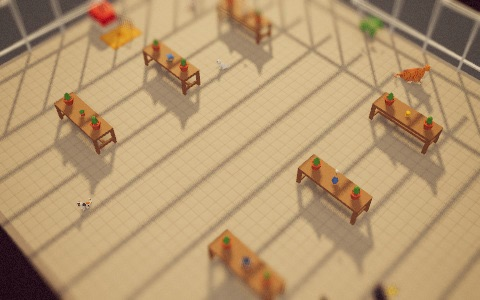
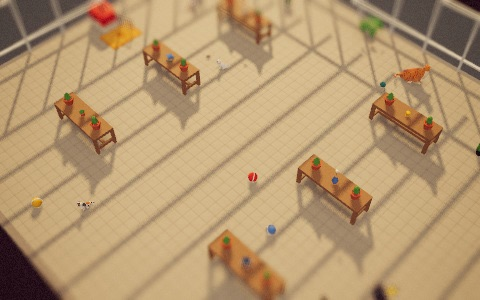
Tonal braided rugs, rolling yarn, room cards redrawn, results sockets on the win picture, README and design notes

diff --git a/src/render/room.js b/src/render/room.js
@@ -770,56 +770,61 @@ function plaidTexture(color) {
     return new THREE.MeshStandardMaterial({ map: t, roughness: 0.97 });
   });
 }
-/** A braided rag rug: many narrow rings, mostly the main colour with its neighbours mixed in, each ring twisted. */
+/** A braided rag rug: narrow rings close in tone (the main colour and its shades), now and then an accent, each ring
+ * twisted; a darker edge. Tonal, so it reads as a woven mat and not a target. */
 function braidTexture(cols) {
   return mat(`braid:${cols.join()}`, () => canvasTex(256, 256, (g, w) => {
     const c = w / 2;
     let seed = hashStr(cols.join()) || 1;
     const rnd = () => { seed = (seed * 16807) % 2147483647; return seed / 2147483647; };
-    g.fillStyle = shade(cols[0], -0.25); g.fillRect(0, 0, w, w);
-    const band = 6.4;
-    let last = -1;
+    const main = cols[0];
+    const tones = [main, shade(main, 0.05), shade(main, -0.05), shade(main, 0.09)];
+    g.fillStyle = shade(main, -0.22); g.fillRect(0, 0, w, w);
+    const band = 5.2;
     for (let r = c - 1, i = 0; r > 3; r -= band, i++) {
-      // the outer two rings in the edge colour, then a weighted mix
-      let k = i < 2 ? 3 : rnd() < 0.42 ? 0 : 1 + Math.floor(rnd() * (cols.length - 1));
-      if (k === last && i >= 2) k = (k + 1) % cols.length;
-      last = k;
-      const col = cols[k];
-      g.lineWidth = band - 0.6; g.strokeStyle = col;
+      // the edge a shade darker, accents only through the middle (a plain centre, so no bullseye)
+      const accent = r > c * 0.3 && r < c * 0.85 && rnd() < 0.14;
+      const col = i < 2 ? shade(main, -0.1) : accent ? cols[1 + Math.floor(rnd() * (cols.length - 1))] : tones[Math.floor(rnd() * tones.length)];
+      g.lineWidth = band - 0.4; g.strokeStyle = col;
       g.beginPath(); g.arc(c, c, Math.max(1, r - band / 2), 0, Math.PI * 2); g.stroke();
-      g.lineWidth = 1.2; g.strokeStyle = shade(col, -0.16);
-      const n = Math.max(6, Math.round((r * Math.PI * 2) / 4.5));
-      const lean = i % 2 ? 0.06 : -0.06;
+      g.lineWidth = 1; g.strokeStyle = shade(col, -0.12);
+      const n = Math.max(6, Math.round((r * Math.PI * 2) / 3.6));
+      const lean = i % 2 ? 0.05 : -0.05;
       for (let j = 0; j < n; j++) {
         const a = (j / n) * Math.PI * 2;
-        const r0 = r - band + 1, r1 = r - 1;
+        const r0 = r - band + 0.8, r1 = r - 0.8;
         g.beginPath(); g.moveTo(c + Math.cos(a) * r0, c + Math.sin(a) * r0); g.lineTo(c + Math.cos(a + lean) * r1, c + Math.sin(a + lean) * r1); g.stroke();
       }
     }
   }));
 }
 const BRAIDS = [
-  ['#d9a23a', '#c98a2e', '#efe2c8', '#9c5a2e', '#d98b86'],
-  ['#3f8a86', '#5c9c97', '#efe2c8', '#2a5f5c', '#d9a23a'],
-  ['#d98b86', '#c46e6a', '#efe2c8', '#8a4a68', '#e9bba8'],
-  ['#7fa276', '#93b38a', '#efe2c8', '#4f7448', '#d9a23a'],
-  ['#3f5d8c', '#5b7aa8', '#efe2c8', '#2f4a70', '#d98b86'],
-  ['#efe2c8', '#d9c7a4', '#c4473b', '#8c6a4a', '#3f8a86'],
+  ['#c98f4a', '#d98b86', '#efe2c8'],
+  ['#4f8a84', '#d9a23a', '#efe2c8'],
+  ['#c98480', '#8a4a68', '#efe2c8'],
+  ['#86a07a', '#d9a23a', '#efe2c8'],
+  ['#5d7397', '#d98b86', '#efe2c8'],
+  ['#d8c7a6', '#c4473b', '#3f8a86'],
 ];
 const DECOR_GEO = {};
+const AXIS_Z = new THREE.Vector3(0, 0, 1);
 const dgeo = (k, make) => (DECOR_GEO[k] ??= make());
 function decorPiece(kind, rng) {
   const g = new THREE.Group();
   const pick = (a) => a[Math.floor(rng() * a.length)];
   if (kind === 'yarn') {
     const col = pick(['#c4473b', '#3f8a86', '#f6b941', '#8c5bc4', '#5b87c5', '#e57fa6']);
+    // the ball rolls inside `roll`; the loose strand trails behind it
+    const roll = new THREE.Group();
+    roll.position.y = 0.105;
     const b = new THREE.Mesh(dgeo('ball', () => new THREE.SphereGeometry(0.11, 14, 10)), yarnTexture(col));
-    b.position.y = 0.105;
     b.rotation.set(rng() * 3, rng() * 3, rng() * 3);
+    roll.add(b);
     const tail = new THREE.Mesh(dgeo('strand', () => new THREE.TorusGeometry(0.22, 0.008, 4, 18, Math.PI * 0.9)), std(col, 0.9));
     tail.rotation.x = -Math.PI / 2;
     tail.position.set(0.2, 0.01, 0);
-    g.add(b, tail);
+    g.add(roll, tail);
+    g.userData.roll = roll;
   } else if (kind === 'mouse') {
     const col = pick(['#9a8f86', '#d8c9b2', '#5b5452']);
     const body = new THREE.Mesh(dgeo('mouseBody', () => new THREE.SphereGeometry(0.07, 10, 8)), std(col, 0.95));
@@ -945,12 +950,14 @@ function decorPiece(kind, rng) {
     handle.position.set(-0.02, 0.27, 0);
     g.add(body, spout, handle);
   } else if (kind === 'ball') {
+    const roll = new THREE.Group();
+    roll.position.y = 0.16;
     const b = new THREE.Mesh(dgeo('bigball', () => new THREE.SphereGeometry(0.16, 16, 12)), std(pick(['#e5493a', '#5b87c5', '#f6b941']), 0.5));
-    b.position.y = 0.16;
     const band = new THREE.Mesh(dgeo('ballBand', () => new THREE.TorusGeometry(0.16, 0.02, 6, 20)), std('#fff3df', 0.5));
-    band.position.y = 0.16;
     band.rotation.set(rng() * 3, rng() * 3, 0);
-    g.add(b, band);
+    roll.add(b, band);
+    g.add(roll);
+    g.userData.roll = roll;
   }
   g.traverse((m) => { if (m.isMesh) { m.castShadow = true; m.receiveShadow = true; } });
   return g;
@@ -1067,7 +1074,6 @@ function decorate(room, world, quality) {
   if (!toys.length) return { group, update() {}, tidy() {} };
 
   const q = new THREE.Quaternion();
-  const axis = new THREE.Vector3();
   /** movers: [{ x, z, r, sp }] this frame. */
   function update(dt, movers) {
     if (!(dt > 0)) return;
@@ -1105,14 +1111,15 @@ function decorate(room, world, quality) {
       t.vx *= f; t.vz *= f;
       t.obj.position.x = t.x;
       t.obj.position.z = t.z;
-      if (t.kind === 'mouse') {
+      const roll = t.obj.userData.roll;
+      if (roll) {
+        // face the strand behind the ball, then roll it about the axis across the motion (local -x is forward)
+        t.obj.rotation.y = Math.atan2(t.vz, -t.vx);
+        q.setFromAxisAngle(AXIS_Z, moved / t.r);
+        roll.quaternion.premultiply(q);
+      } else {
         t.obj.rotation.y += t.spin * dt;
         t.spin *= f;
-      } else {
-        // roll: turn about the axis across the motion
-        axis.set(t.vz, 0, -t.vx).normalize();
-        q.setFromAxisAngle(axis, moved / t.r);
-        t.obj.quaternion.premultiply(q);
       }
     }
   }
@@ -1121,6 +1128,7 @@ function decorate(room, world, quality) {
       t.x = t.home.x; t.z = t.home.z; t.vx = t.vz = 0;
       t.obj.position.set(t.x, 0, t.z);
       t.obj.rotation.set(0, t.home.ry, 0);
+      t.obj.userData.roll?.quaternion.identity();
     }
   }
   return { group, update, tidy };

diff --git a/src/poster.js b/src/poster.js
@@ -9,8 +9,8 @@ import { ROOMS, arena } from './sim/rooms.js';
 import { levelSetup, catladySetup } from './sim/levels.js';
 import { S, SEATS, TYPES } from './sim/tuning.js';
 import { symbolSvg, PATHS } from './ui/symbols.js';
-import { icon } from './ui/icons.js';
-import { carrierSvg, rosette, star } from './ui/ui.js';
+import { icon, challengeIcon } from './ui/icons.js';
+import { carrierSvg, rosette } from './ui/ui.js';
 
 const BADGES = {
   'first-cat': ['paw', '#f6b941'], 'full-carrier': ['carrier', '#4f9a5e'], 'under-par': ['clock', '#3f7fcb'],
@@ -239,9 +239,13 @@ const SCENES = {
         if (i === 76) view.hints.stars(k.x + 0.4, k.z + 0.2);
       },
       camera: () => stage.look(2.05, 9.25, 5.2),
-      after: () => overlay(`<div style="position:absolute;right:70px;top:110px;text-align:center">
-        <div class="ink" style="font:900 112px/1 Fraunces,serif">All in!</div>
-        <div style="display:flex;gap:14px;justify-content:center;margin-top:18px">${star(true, 96)}${star(true, 96)}${star(true, 96)}</div></div>`),
+      // the three stars as the results show them: all in, under par, the room's challenge (a Cat Train here)
+      after: () => {
+        const sock = (pic) => `<span style="display:grid;place-items:center;width:118px;height:118px;border-radius:50%;background:#3b2622;border:5px solid #2b1d1c;box-shadow:0 7px 0 #2b1d1c,inset 0 0 0 4px #f6b94155">${pic}</span>`;
+        overlay(`<div style="position:absolute;right:64px;top:96px;text-align:center">
+        <div class="ink" style="font:900 116px/1 Fraunces,serif;transform:rotate(-4deg)">All in!</div>
+        <div style="display:flex;gap:18px;justify-content:center;margin-top:30px">${sock(icon('carrier', { fill: '#f6b941', size: 76 }))}${sock(icon('clockface', { fill: '#f6b941', size: 76 }))}${sock(challengeIcon('train', { fill: '#f6b941', size: 80 }))}</div></div>`);
+      },
     };
   },
 

diff --git a/DESIGN.md b/DESIGN.md
@@ -101,6 +101,10 @@ matters: when it acts, when you're within 7 u, or always for the Boss. Moggies h
 | **Kitten** | tiny, big head | follows the nearest grown cat within 6 u, 1 u behind it. Flees weakly (2 u). If the cat it follows goes into a carrier and it's within 4 u, it tumbles in after it 0.8 s later | none (size says it) |
 | **Boss** | big tom, notched ear, scar, studded collar | never runs (2 u/s max), turns its back on treats. A clap only makes it stalk off (2.5 u/s for 1 s). Its gang (2-3 cats with the same studded collar) follows it within 6 u in a loose V. When the Boss goes in, every gang cat walks to that carrier from anywhere (still fleeing people within 3 u, so a rival can cut them off) and goes in | a crown, always |
 
+**Coats** are rolled fresh for every cat each try: eight house coats, and now and then something rarer: Fancy (1 in 7:
+Silver Tabby, Cream, Ginger & White, Russian Blue, Cow Print, Smoke), Rare (1 in 30: Panda, Bengal, Lilac Point, Midnight)
+and Lucky Gold (1 in 150). Rare coats glint in the room; boxing one adds it to the Cat-alog with a sparkle.
+
 **Furniture:** low pieces (sofa, bed, tables, boxes) are perches. An idle cat may hop up (4% a second, 6-15 s); a perched cat
 ignores pushes and swishes its tail. Treats or a clap bring it down. Perched cats sometimes swat an object off (a vase, a
 mug, a stack of books): it falls and smashes with a crash. Nearby cats flinch; a Scaredy within 6 u hides. Debris has no
@@ -167,7 +171,8 @@ stragglers); private servers wait for the host's Start (`room.canStart`). Joinin
 (16 for 4 seats, 24 for 6). A round ends when the last cat is in or the clock runs out. Your points are the cats in your
 carrier; the match is won on total cats. People's pushes affect every cat, so stealing a herd someone lined up is the game.
 Each carrier's doormat is its owner's: other people standing on it slide off (no door camping). Persons pass through each
-other. Round 1 has moggies, a Glutton and kittens; round 2 adds Zoomers, a Loaf and a Scaredy; round 3+ adds a Boss gang.
+other. The camera follows you (your carrier leaning into frame), so 16-24 cats stay big enough to read. 45 s in, a **laser
+pointer** turns up in the middle of the room: whoever grabs it can pull a crowd to their door (55 s in Together). Round 1 has moggies, a Glutton and kittens; round 2 adds Zoomers, a Loaf and a Scaredy; round 3+ adds a Boss gang.
 Carrier spots rotate each round.
 
 **Together.** One carrier, all the cats, beat the clock. 2:30 rounds; cats = 6 + 2 per seat. Team stars per round:

diff --git a/README.md b/README.md
@@ -1,13 +1,23 @@
 # Herding Cats
 
-Get every cat into the carrier before the vet closes. Good luck.
+Get every cat into the carrier before the vet closes. Fifteen appointments with three stars each, a new Daily every day,
+rare coats for the Cat-alog and hats, carriers and claps to earn. Alone or with friends.
 
 Play: https://onceworlds.com/play/herding-cats
 
 ```
 npm install
-npm test        # the simulation, levels, balance and multiplayer session
+npm test        # the simulation, clap shots and twists, levels, balance, progression and the multiplayer session
 npm run build   # the game, into dist/
 ```
+
+Tuning:
+
+```
+node tools/calibrate.mjs [--write]   # par and expert times per appointment from the herder bot's runs
+node tools/daily.mjs [days] [seeds]  # the bot on the Daily against its par, with suggested seconds per cat per room
+```
+
+How it plays, looks and sounds: [DESIGN.md](DESIGN.md). Models, textures and sounds (all CC0): [CREDITS.md](CREDITS.md).
 
 MIT licensed.
